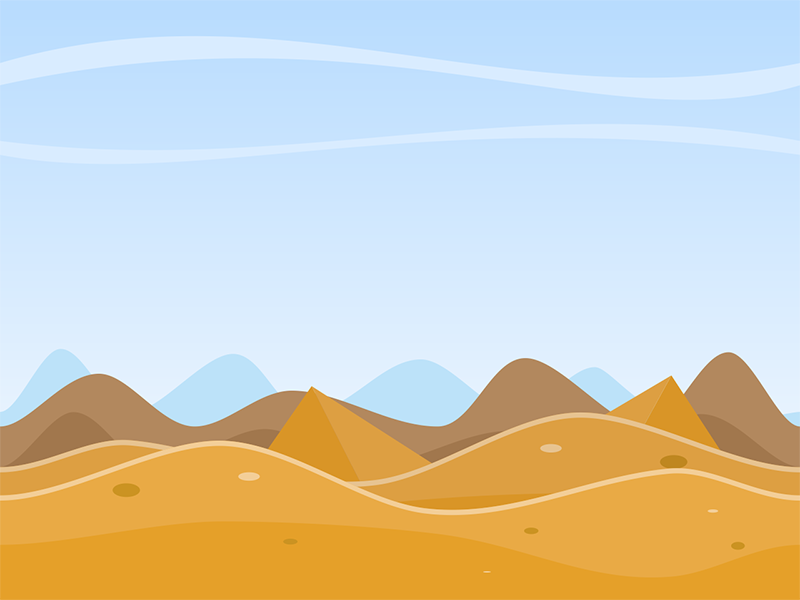
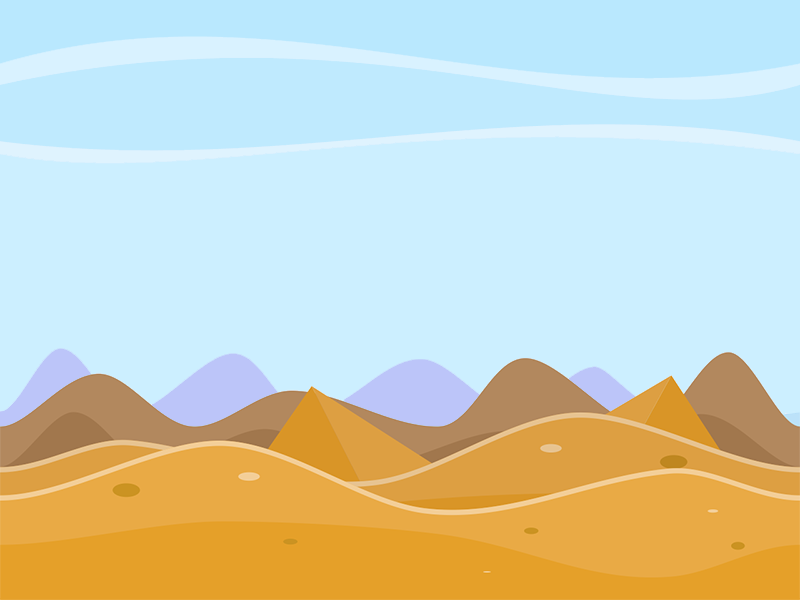
Creates larged tiled world and following camera. Repositions sprites accordingly and adds more debug methods.

diff --git a/src/app.js b/src/app.js
@@ -4,10 +4,11 @@ var game = new Phaser.Game(
   { preload: preload, create: create, update: update, render: render }
 );
 
-var game, cursors, player, platforms, ground, ledge;
+var game, cursors, player, platforms, ledge;
 
 function preload() {
-  game.load.image('sky', 'assets/BG.png');
+  game.load.image('sky', 'assets/bg-tile.png');
+  game.load.image('hills', 'assets/BG.png');
   game.load.image('player', 'assets/dandy.png');
   game.load.image('particle', 'assets/white-smoke.png');
   game.load.image('platform', 'assets/platform.png');
@@ -15,7 +16,9 @@ function preload() {
 
 function create() {
   game.physics.startSystem(Phaser.Physics.ARCADE);
-  game.add.sprite(0, 0, 'sky');
+  game.world.setBounds(0, 0, 8000, 6000);
+  game.add.tileSprite(0, 0, 8000, 6000, 'hills');
+  game.add.tileSprite(0, 0, 8000, 5400, 'sky');
 
   emitter = game.add.emitter(game.world.centerX, 500, 400);
   emitter.makeParticles('particle');
@@ -26,17 +29,19 @@ function create() {
 
   platforms = game.add.group();
   platforms.enableBody = true;
-  ground = platforms.create(-60, game.world.height - 24, 'platform');
-  ground.scale.setTo(3, 3);
-  ledge = platforms.create(400, 400, 'platform');
-  ledge = platforms.create(-150, 250, 'platform');
+  ledge = platforms.create(240, 200, 'platform');
+  ledge = platforms.create(500, 500, 'platform');
+  ledge = platforms.create(700, 5700, 'platform');
+  ledge = platforms.create(400, 5850, 'platform');
   platforms.setAll('body.immovable', true);
  
-  player = game.add.sprite(32, game.world.height - 150, 'player');
+  player = game.add.sprite(0, 0, 'player');
   game.physics.arcade.enable(player);
   player.body.setSize(20, 58, 18, 6);
+  player.body.collideWorldBounds = true;
 
   cursors = game.input.keyboard.createCursorKeys();
+  game.camera.follow(player);
 }
 
 function update() {
@@ -44,11 +49,12 @@ function update() {
   processControls(player);
   applyPlayerDrag(player);
   emitTrail();
-  game.world.wrap(player, 20);
 }
 
 function render() {
   //game.debug.body(player);
+  game.debug.cameraInfo(game.camera, 32, 32);
+  game.debug.spriteCoords(player, 32, 500);
 }
 
 function processControls(player) {
